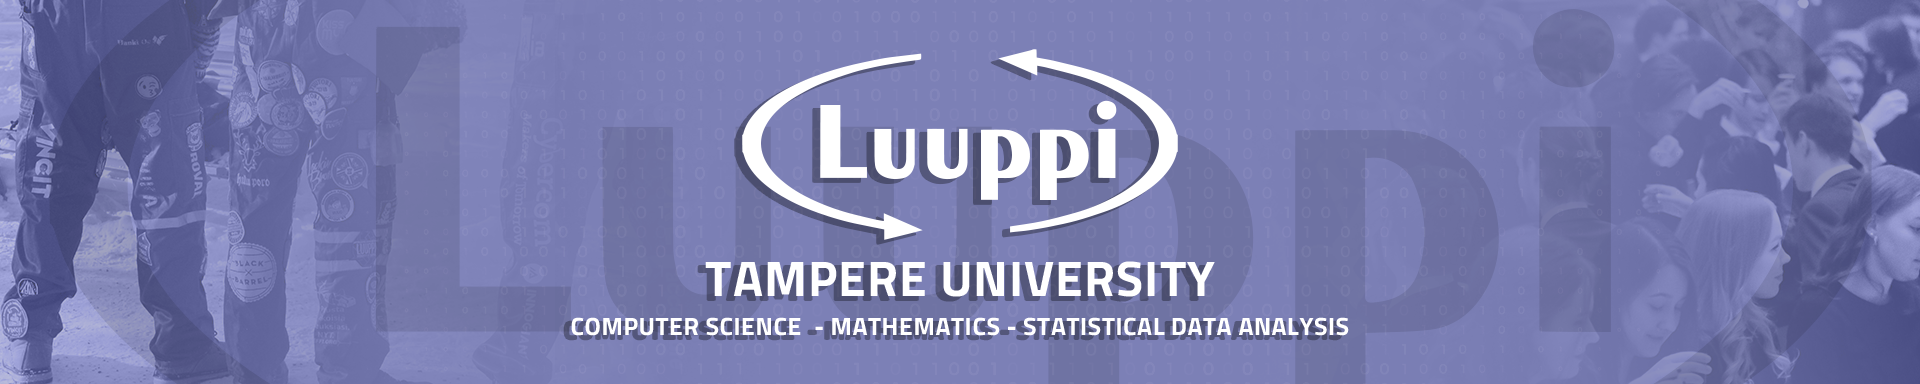
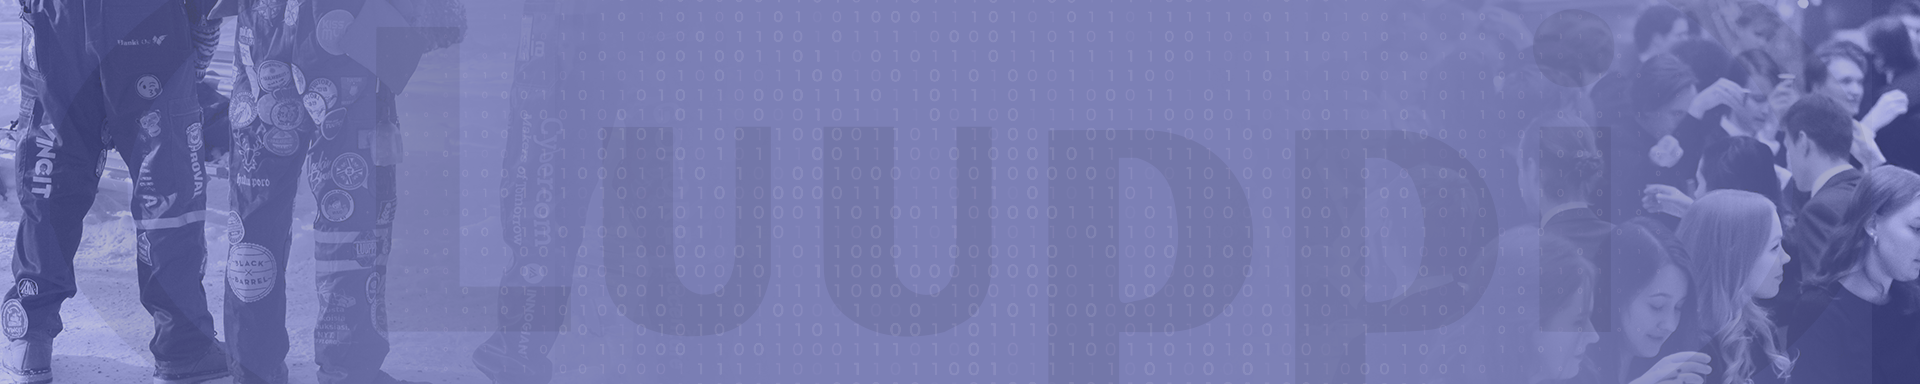
separate svg for text

Changed region(s): [[0.375, 0.125, 0.625, 0.625], [0.2812, 0.8125, 0.7188, 0.9062], [0.3438, 0.6562, 0.6562, 0.7812]]

diff --git a/src/components/Hero/Hero.tsx b/src/components/Hero/Hero.tsx
@@ -3,8 +3,18 @@ import Image from 'next/image';
 export default function Hero() {
   return (
     <section>
-      <div className="relative  h-96 bg-blue-200 transition-all duration-300 max-lg:h-80 max-md:h-56 max-sm:h-44">
-        <div className="relative flex h-full w-full overflow-hidden">
+      <div className="relative  h-80 bg-blue-200 transition-all duration-300 max-md:h-56">
+        <div className="relative flex h-full w-full justify-center overflow-hidden">
+          <div className="z-10 flex h-full max-md:h-56">
+            <Image
+              src={'/luuppi_banner_text.svg'}
+              draggable={false}
+              alt="Luuppi banner"
+              unoptimized
+              fill
+              className="z-10 object-contain p-8 drop-shadow-[-6px_6px_#00000030] filter max-md:p-4 max-sm:p-2"
+            />
+          </div>
           <Image
             src="/banner.png"
             fill

diff --git a/src/components/About/About.tsx b/src/components/About/About.tsx
@@ -58,7 +58,7 @@ export default function About() {
       <div className="about-container relative flex w-1/2 max-xl:h-80 max-xl:w-full">
         <Image
           draggable={false}
-          src="/luuppi-cards-01.svg"
+          src="/luuppi-cards.svg"
           alt="Luuppi"
           sizes="(max-width: 768px) 100vw, (max-width: 1200px) 50vw, 33vw"
           fill
